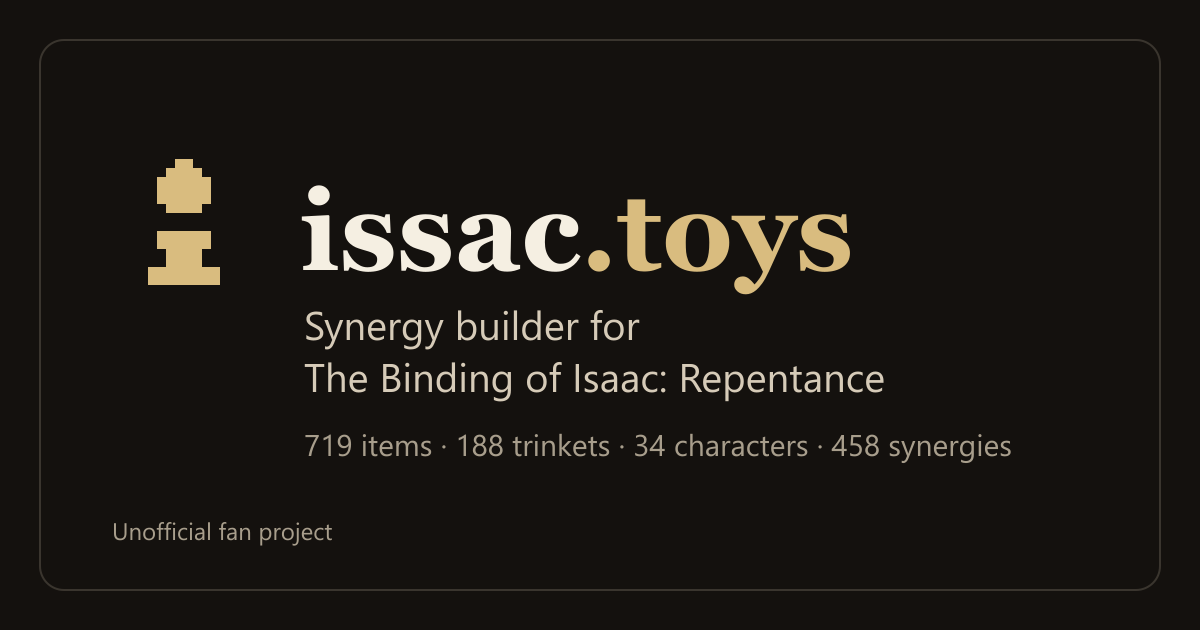
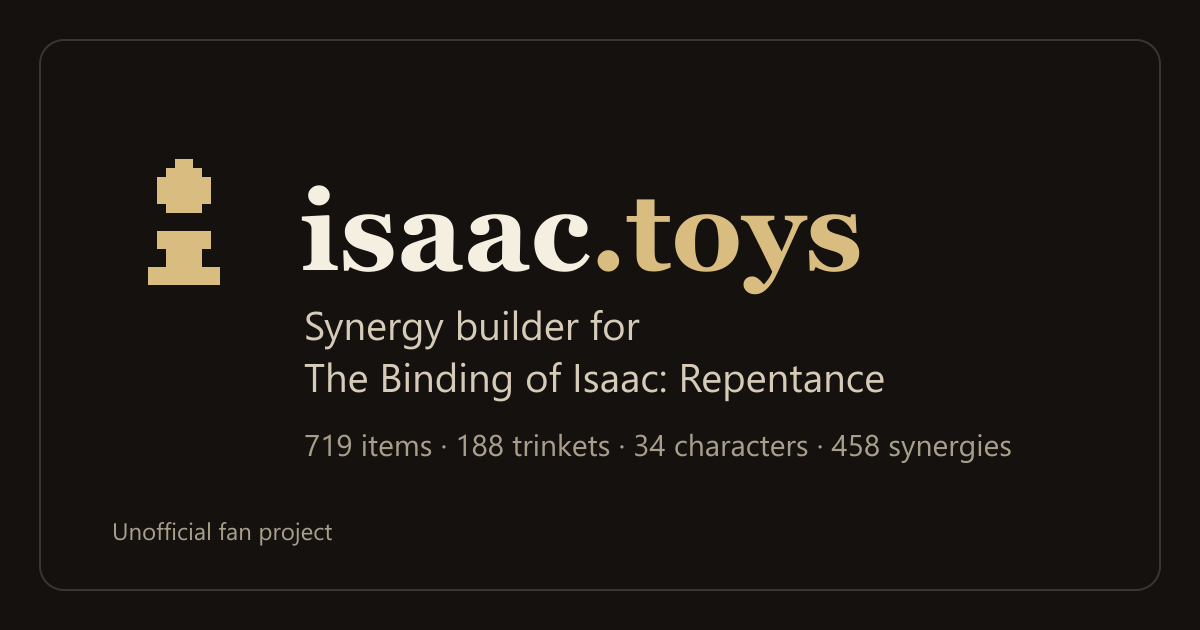
feat: the site is isaac.toys, the game's spelling
The owner chose isaac.toys on 2026-11-24 (decision 0002); the first domain,
with a double s, only redirects to it. Renamed in the app, the API's default
SITE_URL, the snapshot, the share image, the tests, the browser storage keys
and the SQLite file name: nothing is deployed, so nothing is lost.

Also recorded from the same answers: Opus 5.5 with the caps unchanged
(decision 0003), and DNS only, no Cloudflare proxy (DEPLOY.md).

Changed region(s): [[0.3392, 0.3016, 0.74, 0.4825]]

diff --git a/web/src/app.test.tsx b/web/src/app.test.tsx
@@ -28,9 +28,9 @@ describe("builder", () => {
     open("/");
     expect(screen.getByRole("heading", { level: 1, name: "Binding of Isaac synergy builder" })).toBeInTheDocument();
     expect(screen.getByRole("heading", { name: "Start with what’s in your run" })).toBeInTheDocument();
-    expect(screen.getByRole("heading", { name: "What does issac.toys do?" })).toBeInTheDocument();
+    expect(screen.getByRole("heading", { name: "What does isaac.toys do?" })).toBeInTheDocument();
     expect(screen.getByRole("link", { name: /Brimstone \+ Tammy's Head/ })).toHaveAttribute("href", "/?i=118.38");
-    expect(document.title).toBe("Binding of Isaac Synergy Builder for Repentance | issac.toys");
+    expect(document.title).toBe("Binding of Isaac Synergy Builder for Repentance | isaac.toys");
   });
 
   it("opens a build from a link and shows its synergy", () => {
@@ -136,7 +136,7 @@ describe("builder", () => {
     await user.click(screen.getByRole("link", { name: "Builder" }));
     expect(within(shelf()).getByRole("link", { name: "Tammy's Head" })).toBeInTheDocument();
     expect(screen.getByRole("heading", { level: 2, name: "1 synergy" })).toBeInTheDocument();
-    await user.click(screen.getByRole("link", { name: "issac.toys, home" }));
+    await user.click(screen.getByRole("link", { name: "isaac.toys, home" }));
     expect(within(shelf()).getByRole("link", { name: "Brimstone" })).toBeInTheDocument();
 
     // An edit made after coming back is the one that is kept.
@@ -238,7 +238,7 @@ describe("your own synergies", () => {
 
     expect(screen.getByText("My own note about this pair.")).toBeInTheDocument();
     expect(screen.getByText("Yours")).toBeInTheDocument();
-    expect(JSON.parse(localStorage.getItem("issac-toys:my-synergies:v1")!)).toHaveLength(1);
+    expect(JSON.parse(localStorage.getItem("isaac-toys:my-synergies:v1")!)).toHaveLength(1);
 
     await user.click(screen.getByRole("button", { name: "Delete" }));
     expect(screen.queryByText("My own note about this pair.")).not.toBeInTheDocument();
@@ -248,7 +248,7 @@ describe("your own synergies", () => {
     const user = open("/?i=118.38");
     await user.click(screen.getByRole("button", { name: "Add your own synergy" }));
     await user.click(within(screen.getByRole("dialog")).getByRole("button", { name: "Cancel" }));
-    expect(localStorage.getItem("issac-toys:my-synergies:v1")).toBeNull();
+    expect(localStorage.getItem("isaac-toys:my-synergies:v1")).toBeNull();
   });
 });
 
@@ -274,7 +274,7 @@ describe("browse and detail pages", () => {
     expect(screen.getByText("Devil Room, Ultra Secret Room")).toBeInTheDocument();
     expect(screen.getByRole("heading", { level: 2, name: "64 synergies with Brimstone" })).toBeInTheDocument();
     expect(screen.getByText(/The strongest are with Azazel, Crown of Light and Epic Fetus/)).toBeInTheDocument();
-    expect(document.title).toBe("Brimstone Synergies in The Binding of Isaac | issac.toys");
+    expect(document.title).toBe("Brimstone Synergies in The Binding of Isaac | isaac.toys");
 
     await user.click(screen.getByRole("button", { name: "Add to my build" }));
     expect(within(shelf()).getByRole("link", { name: "Brimstone" })).toBeInTheDocument();
@@ -318,7 +318,7 @@ describe("browse and detail pages", () => {
 
   it("renders the About page from the shared text", () => {
     open("/about");
-    expect(screen.getByRole("heading", { level: 1, name: "About issac.toys" })).toBeInTheDocument();
+    expect(screen.getByRole("heading", { level: 1, name: "About isaac.toys" })).toBeInTheDocument();
     expect(screen.getByRole("heading", { level: 2, name: "How do the synergy ratings work?" })).toBeInTheDocument();
     expect(screen.getByRole("link", { name: "Rebirth Item Tracker" })).toHaveAttribute(
       "href",

diff --git a/web/src/site.ts b/web/src/site.ts
@@ -1,14 +1,15 @@
 /**
- * The site's name in one place. The owner registered issac.toys on 2026-11-24;
+ * The site's name in one place. The owner chose isaac.toys on 2026-11-24 (issac.toys, registered first,
+ * redirects to it: docs/decisions/0002);
  * if the spelling changes, change it here and in the API's SITE_URL (api/app/settings.py).
  */
 export const SITE = {
-  domain: "issac.toys",
+  domain: "isaac.toys",
   tagline: "Synergy builder for The Binding of Isaac: Repentance",
   game: "The Binding of Isaac: Repentance",
 } as const;
 
-/** "issac" and ".toys", for the two-tone wordmark. */
+/** "isaac" and ".toys", for the two-tone wordmark. */
 export function wordmarkParts(domain: string = SITE.domain): [string, string] {
   const dot = domain.indexOf(".");
   return dot === -1 ? [domain, ""] : [domain.slice(0, dot), domain.slice(dot)];

diff --git a/web/index.html b/web/index.html
@@ -6,7 +6,7 @@
     <meta name="color-scheme" content="dark" />
     <meta name="theme-color" content="#0f0d0b" />
     <!--head-start-->
-    <title>issac.toys: synergy builder for The Binding of Isaac: Repentance</title>
+    <title>isaac.toys: synergy builder for The Binding of Isaac: Repentance</title>
     <meta
       name="description"
       content="Pick a character, items and trinkets and see every known synergy, what one more pickup would unlock, and an AI read on the build. Unofficial fan tool for The Binding of Isaac: Repentance."

diff --git a/web/src/units.test.ts b/web/src/units.test.ts
@@ -79,7 +79,7 @@ describe("storage", () => {
 
 describe("wordmark", () => {
   it("splits the domain at its first dot", () => {
-    expect(wordmarkParts("issac.toys")).toEqual(["issac", ".toys"]);
+    expect(wordmarkParts("isaac.toys")).toEqual(["isaac", ".toys"]);
     expect(wordmarkParts("localhost")).toEqual(["localhost", ""]);
   });
 });

diff --git a/web/src/hooks/useCustomSynergies.ts b/web/src/hooks/useCustomSynergies.ts
@@ -3,7 +3,7 @@ import { gameData } from "../engine/data";
 import { RATINGS, type Rating, type Synergy } from "../engine/types";
 import { readStored, writeStored } from "./storage";
 
-const KEY = "issac-toys:my-synergies:v1";
+const KEY = "isaac-toys:my-synergies:v1";
 export const MAX_DESCRIPTION = 600;
 
 export interface NewSynergy {

diff --git a/web/src/hooks/BuildStore.tsx b/web/src/hooks/BuildStore.tsx
@@ -4,7 +4,7 @@ import { gameData } from "../engine/data";
 import type { Build } from "../engine/types";
 import { readStored, writeStored } from "./storage";
 
-const KEY = "issac-toys:build:v1";
+const KEY = "isaac-toys:build:v1";
 
 interface BuildStore {
   build: Build;

diff --git a/api/tests/test_pages.py b/api/tests/test_pages.py
@@ -43,8 +43,8 @@ def test_every_public_page_is_complete_without_javascript(client: TestClient, pa
     description = re.search(r'<meta name="description" content="([^"]*)"', html)
     assert description and 50 <= len(description.group(1)) <= 160 + description.group(1).count("&") * 5
     canonical = re.search(r'<link rel="canonical" href="([^"]*)"', html)
-    assert canonical and canonical.group(1) == f"https://issac.toys{path}"
-    assert '<meta property="og:image" content="https://issac.toys/og.png"' in html
+    assert canonical and canonical.group(1) == f"https://isaac.toys{path}"
+    assert '<meta property="og:image" content="https://isaac.toys/og.png"' in html
     blocks = re.findall(r'<script type="application/ld\+json">(.*?)</script>', html, flags=re.S)
     assert blocks, "has JSON-LD"
     for block in blocks:
@@ -109,18 +109,18 @@ def test_sitemap_lists_every_public_page(client: TestClient, data: GameData) -> 
     ns = {"s": "http://www.sitemaps.org/schemas/sitemap/0.9"}
     locs = [e.text for e in root.findall("s:url/s:loc", ns)]
     assert len(locs) == 6 + 719 + 188 + 34 == len(all_paths(data))
-    assert "https://issac.toys/items/brimstone" in locs and "https://issac.toys/" in locs
+    assert "https://isaac.toys/items/brimstone" in locs and "https://isaac.toys/" in locs
     assert all(e.text == data.meta["updated"] for e in root.findall("s:url/s:lastmod", ns))
     # Every listed page really answers.
-    for loc in ("https://issac.toys/trinkets/cancer", "https://issac.toys/characters/tainted-jacob"):
-        assert client.get(loc.removeprefix("https://issac.toys")).status_code == 200
+    for loc in ("https://isaac.toys/trinkets/cancer", "https://isaac.toys/characters/tainted-jacob"):
+        assert client.get(loc.removeprefix("https://isaac.toys")).status_code == 200
 
 
 def test_robots_allows_ai_crawlers_in_production(client: TestClient) -> None:
     r = client.get("/robots.txt")
     for bot in ("GPTBot", "ChatGPT-User", "PerplexityBot", "Google-Extended", "ClaudeBot", "anthropic-ai"):
         assert f"User-agent: {bot}\nAllow: /" in r.text
-    assert "Sitemap: https://issac.toys/sitemap.xml" in r.text
+    assert "Sitemap: https://isaac.toys/sitemap.xml" in r.text
     assert "x-robots-tag" not in r.headers
 
 
@@ -133,8 +133,8 @@ def test_everything_but_production_is_kept_out_of_search(make_client: Callable[.
 
 def test_llms_txt_summarises_the_site(client: TestClient) -> None:
     text = client.get("/llms.txt").text
-    assert text.startswith("# issac.toys\n\n> issac.toys checks your character, items and trinkets against 458")
-    assert "- [All items](https://issac.toys/items)" in text
+    assert text.startswith("# isaac.toys\n\n> isaac.toys checks your character, items and trinkets against 458")
+    assert "- [All items](https://isaac.toys/items)" in text
     assert "## Strongest synergies" in text
 
 

diff --git a/api/app/main.py b/api/app/main.py
@@ -21,7 +21,7 @@ from .pages import describe
 from .settings import MAX_ITEMS, MAX_TRINKETS, Settings
 from .store import LimitReached, Store
 
-log = logging.getLogger("issac_toys")
+log = logging.getLogger("isaac_toys")
 
 # Used when the web app has not been built (tests, API-only development).
 BARE_SHELL = (
@@ -87,7 +87,7 @@ def create_app(
 ) -> FastAPI:
     settings = settings or Settings.from_env()
     data = GameData.load(settings.data_path)
-    store = store or Store(settings.data_dir / "issac-toys.sqlite3")
+    store = store or Store(settings.data_dir / "isaac-toys.sqlite3")
     if analyzer is None and settings.anthropic_api_key:
         analyzer = ClaudeAnalyzer(settings)
     upstream = asyncio.Semaphore(4)

diff --git a/api/tests/test_core.py b/api/tests/test_core.py
@@ -169,7 +169,7 @@ def test_page_text_helpers() -> None:
 def test_every_page_fits_the_search_limits_and_has_its_own_title(data: GameData) -> None:
     from app.pages import all_paths
 
-    pages = [describe(p, data, "issac.toys") for p in all_paths(data)]
+    pages = [describe(p, data, "isaac.toys") for p in all_paths(data)]
     assert [p.path for p in pages if len(p.title) > 60 or len(p.description) > 160 or not p.found] == []
     assert len({p.title for p in pages}) == len(pages)
 

diff --git a/api/app/settings.py b/api/app/settings.py
@@ -32,7 +32,7 @@ class Settings:
     site_per_day: int = 200
     # Railway's edge writes X-Forwarded-For. Set "cf-connecting-ip" only when Cloudflare proxies the domain.
     client_ip_header: str = "x-forwarded-for"
-    site_url: str = "https://issac.toys"
+    site_url: str = "https://isaac.toys"
     environment: str = "development"
     data_path: Path = REPO / "data"
     web_dist: Path = REPO / "web" / "dist"

diff --git a/api/app/analysis.py b/api/app/analysis.py
@@ -16,7 +16,7 @@ import anthropic
 from .gamedata import Build, GameData
 from .settings import Settings
 
-log = logging.getLogger("issac_toys.analysis")
+log = logging.getLogger("isaac_toys.analysis")
 
 SYSTEM = """You explain item builds for The Binding of Isaac: Repentance to a player in the middle of a run.
 

diff --git a/api/app/parity.py b/api/app/parity.py
@@ -17,7 +17,7 @@ from .gamedata import Build, GameData
 from .pages import describe
 from .settings import Settings
 
-DOMAIN = "issac.toys"
+DOMAIN = "isaac.toys"
 
 PATHS = [
     "/",
